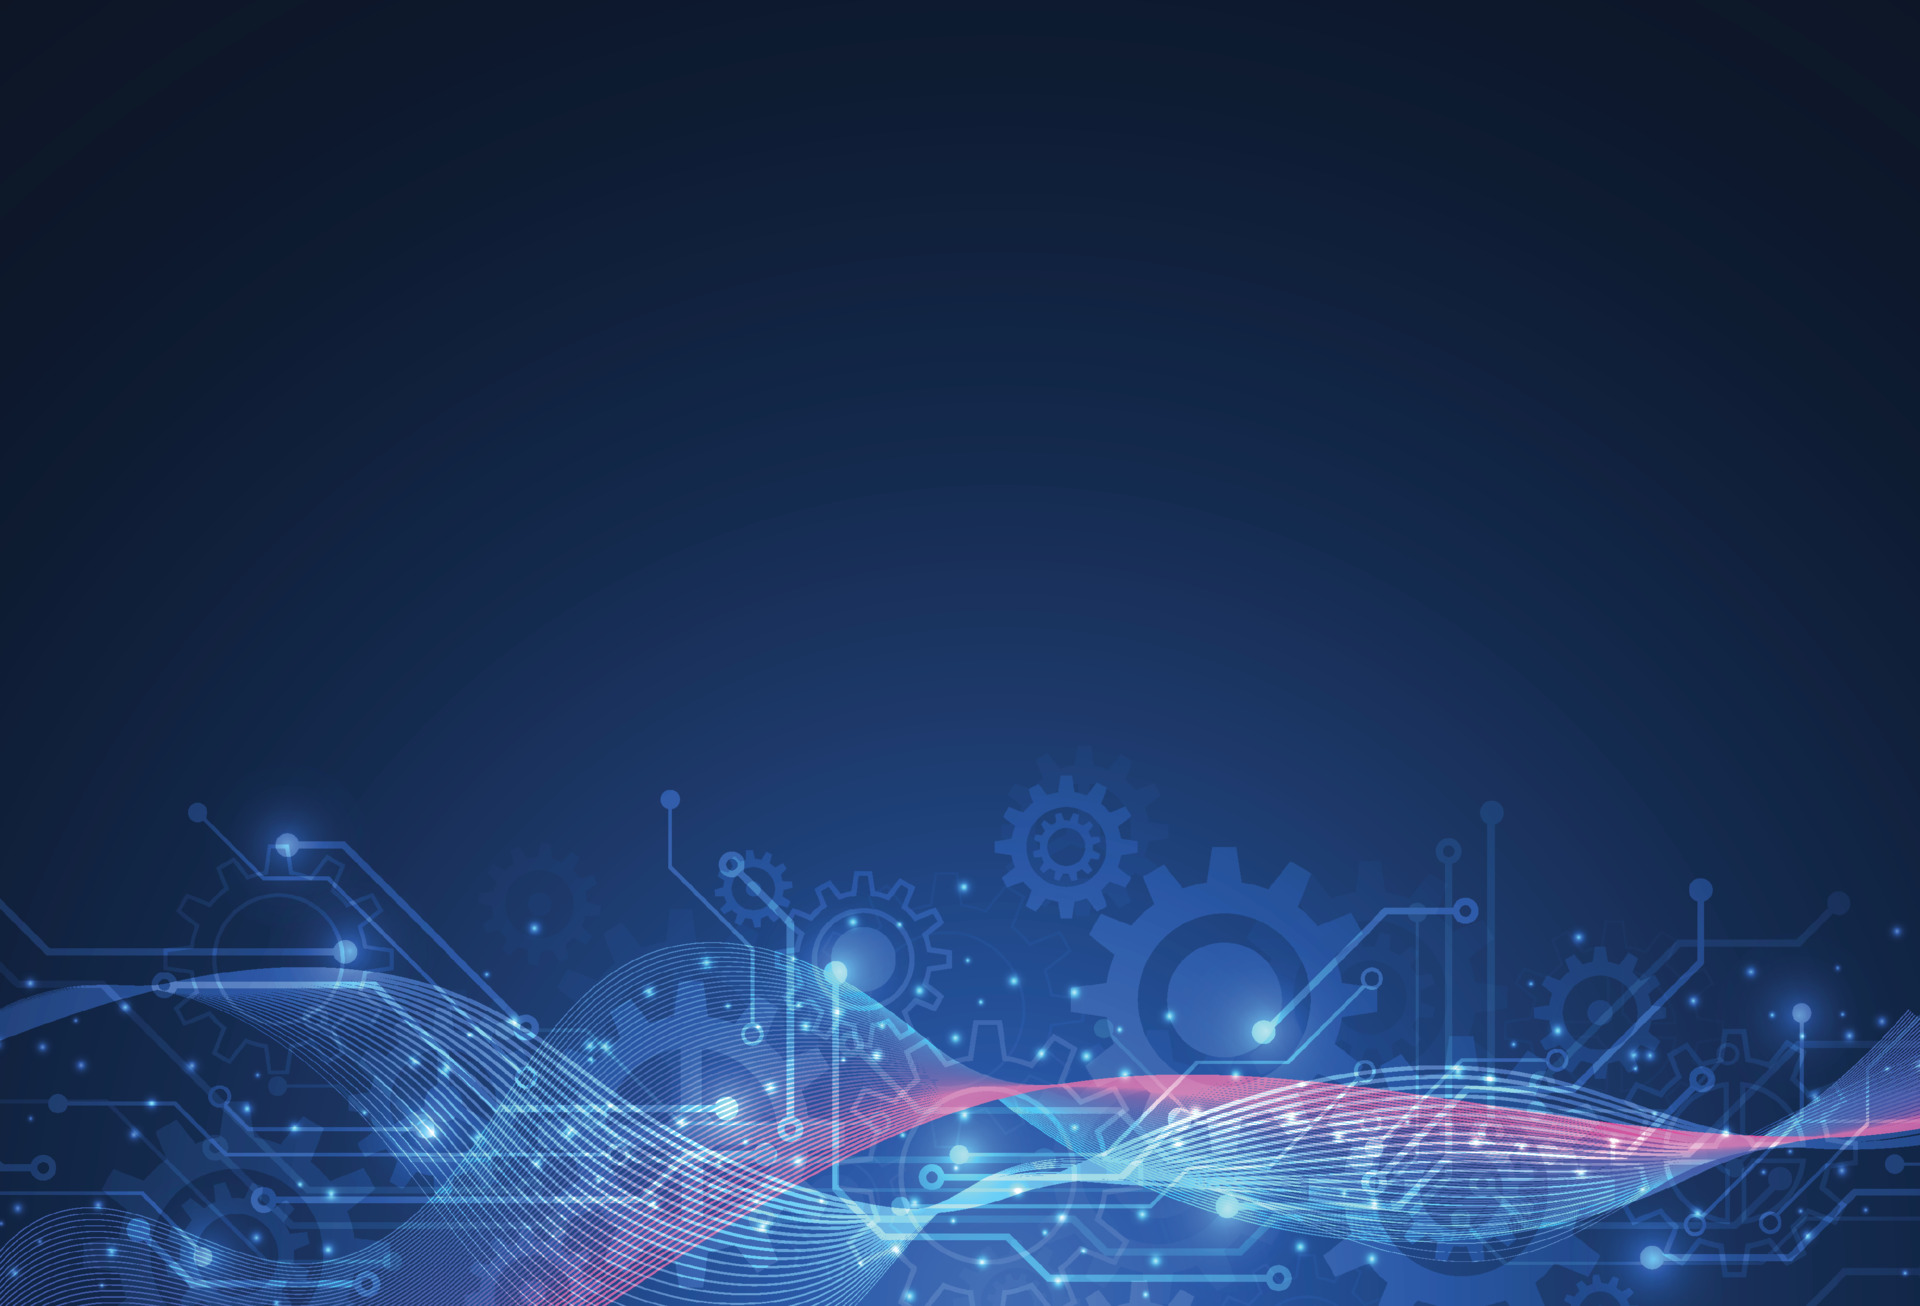
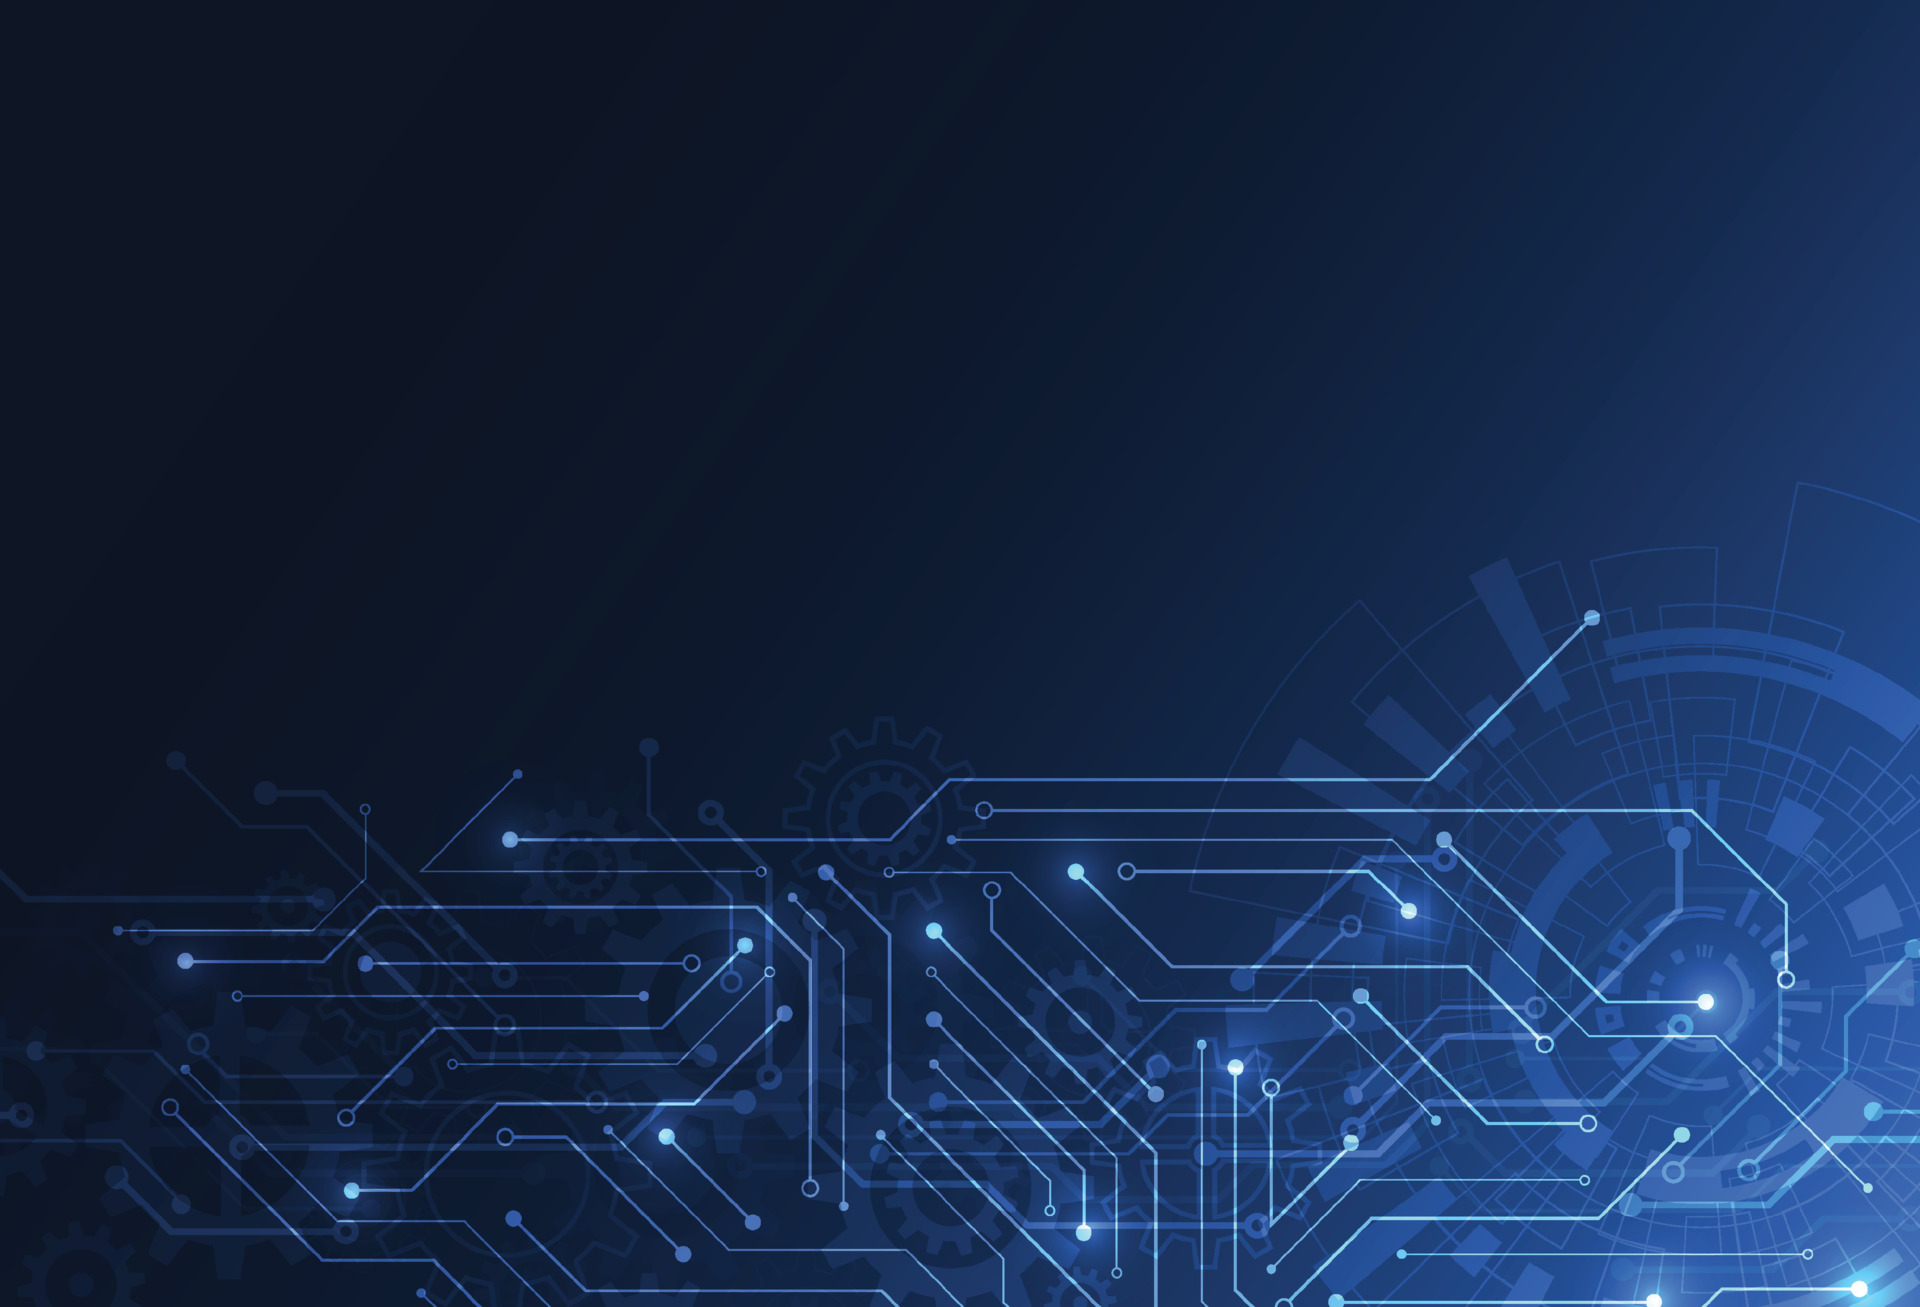
updates

diff --git a/style.css b/style.css
@@ -48,7 +48,7 @@ section {
     min-height: 100vh;
     display: flex;
     align-items: center;
-    background: url(images/background6.jpg) no-repeat;
+    background: url(images/background.jpg) no-repeat;
     background-size: cover;
     background-position: center;
     background-attachment: fixed;
